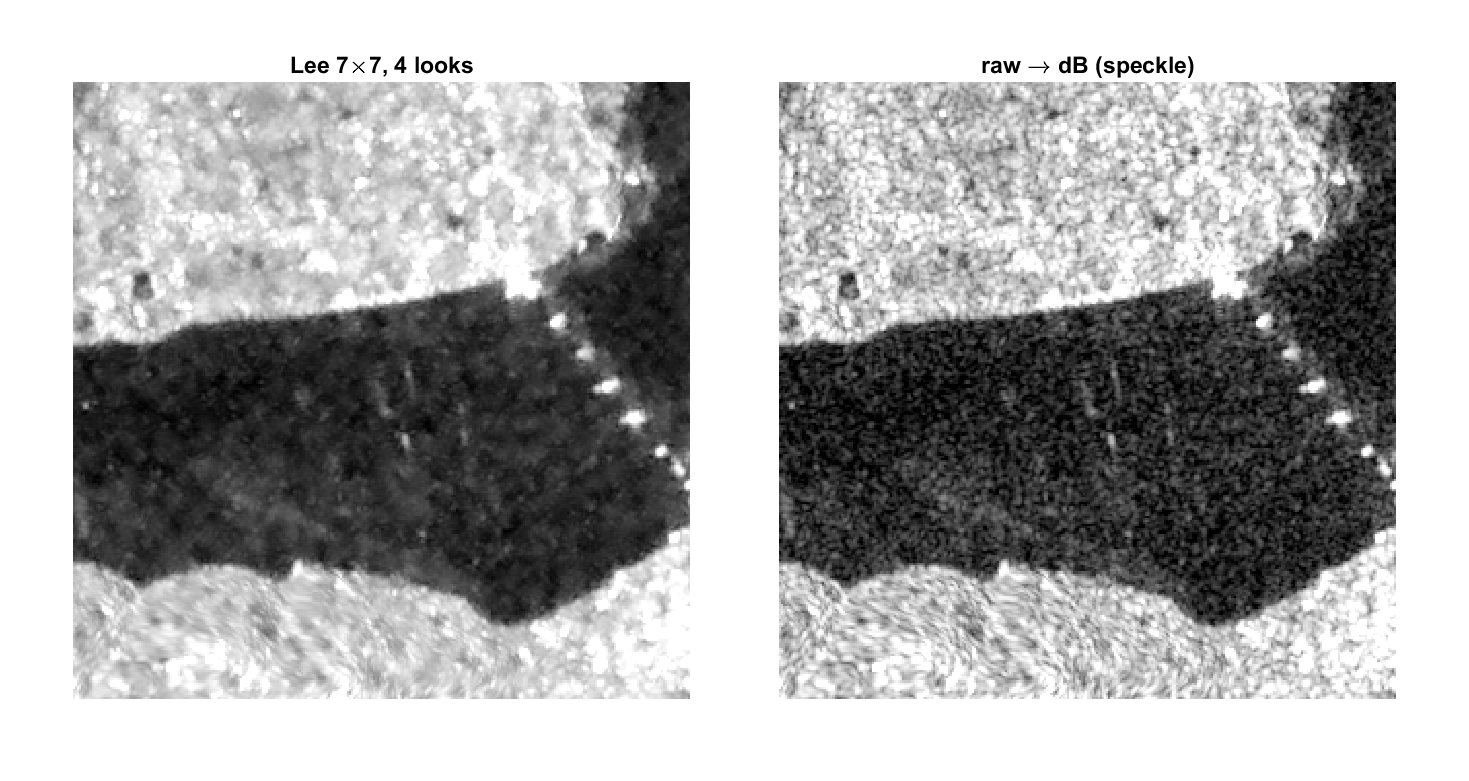
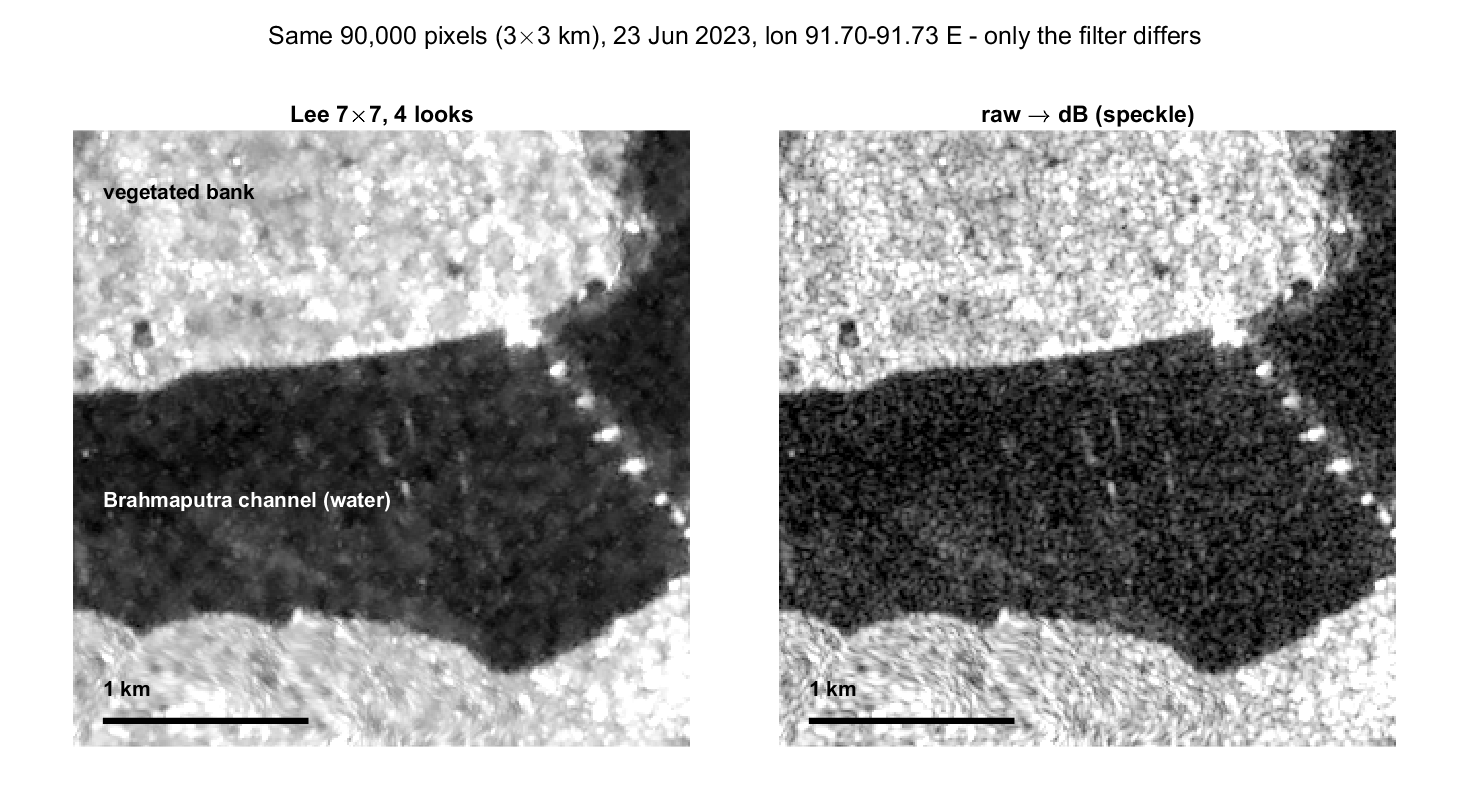
feat: lee_effect.py quantifies speckle->false-water; annotate MATLAB demo figure; ledger C-023

diff --git a/code/confidence/lee_effect.py b/code/confidence/lee_effect.py
@@ -1,0 +1,165 @@
+"""Quantify what the Lee speckle filter does to the flood map.
+
+Answers, with numbers, the question "why filter before thresholding?":
+
+  * area called water by the same Otsu threshold, unfiltered vs filtered
+  * how much of that is speckle-induced false water
+  * how much real (thin) water the smoothing costs
+  * speckle reduction measured on open water in the 3x3 km demo crop
+
+The unfiltered image is the raw linear-power RTC subset converted straight to dB
+(no filtering); the filtered image is the analysis-ready layer written by
+build_stack.py. Both are evaluated with the same threshold, so the comparison is
+like-for-like and *before* the permanent-water / slope / morphology cleanup.
+
+Outputs: outputs/tables/lee_effect.csv, outputs/figures/lee_effect.png
+Related: matlab/step1_read_filter.m (renders the same crop side by side).
+"""
+
+from __future__ import annotations
+
+import csv
+import sys
+from pathlib import Path
+
+sys.path.insert(0, str(Path(__file__).resolve().parents[1] / "preprocessing"))
+
+import matplotlib
+
+matplotlib.use("Agg")
+import matplotlib.pyplot as plt
+import numpy as np
+import rasterio
+from rasterio.warp import transform as warp_transform
+
+from common import load_config, rel_path
+
+DB_NODATA = -9999.0
+RAW_NODATA = -32768.0
+CROP = (1200, 1500, 300)  # row, col, size — mirrors matlab/step1_read_filter.m
+
+
+def read(path):
+    with rasterio.open(path) as src:
+        return src.read(1), src.transform, src.crs
+
+
+def otsu_threshold_from_table(tables: Path) -> float:
+    with open(tables / "mask_stats.csv", newline="", encoding="utf-8") as handle:
+        for row in csv.DictReader(handle):
+            if row["method"] == "otsu_vv":
+                return float(row["threshold"])
+    raise RuntimeError("otsu_vv row not found in mask_stats.csv")
+
+
+def main() -> int:
+    cfg = load_config()
+    processed = rel_path(cfg, "data_processed")
+    raw_dir = rel_path(cfg, "data_raw")
+    tables = rel_path(cfg, "outputs") / "tables"
+    figures = rel_path(cfg, "outputs") / "figures"
+    tables.mkdir(parents=True, exist_ok=True)
+    figures.mkdir(parents=True, exist_ok=True)
+
+    lee_db, transform, crs = read(processed / "s1_post_vv_db.tif")
+    raw, _, _ = read(raw_dir / "sentinel1" / "s1_rtc_post_vv.tif")
+
+    valid = (lee_db != DB_NODATA) & (raw > 0) & (raw != RAW_NODATA)
+    raw_db = np.full(raw.shape, np.nan, dtype="float32")
+    raw_db[valid] = 10.0 * np.log10(raw[valid].astype("float64"))
+
+    t = otsu_threshold_from_table(tables)
+    px_km2 = (cfg["grid"]["resolution_m"] ** 2) / 1e6
+
+    water_raw = valid & (raw_db < t)
+    water_lee = valid & (lee_db < t)
+    extra = water_raw & ~water_lee          # speckle-induced false water
+    lost = water_lee & ~water_raw           # thin water smoothed away
+
+    # ---- the demo crop (same window as the MATLAB figure) ----
+    r0, c0, n = CROP
+    crop_raw = raw_db[r0:r0 + n, c0:c0 + n]
+    crop_lee = lee_db[r0:r0 + n, c0:c0 + n]
+    water_mask = crop_raw < -15.0           # defined on the RAW image only, so unbiased
+    std_raw = float(np.nanstd(crop_raw[water_mask]))
+    std_lee = float(np.nanstd(crop_lee[water_mask]))
+
+    x0, y0 = transform * (c0, r0 + n)
+    x1, y1 = transform * (c0 + n, r0)
+    lon, lat = warp_transform(crs, "EPSG:4326", [x0, x1], [y0, y1])
+
+    rows = [
+        ("threshold_db", f"{t:.4f}"),
+        ("raw_water_km2", f"{water_raw.sum() * px_km2:.2f}"),
+        ("lee_water_km2", f"{water_lee.sum() * px_km2:.2f}"),
+        ("speckle_extra_km2", f"{extra.sum() * px_km2:.2f}"),
+        ("speckle_extra_pct_of_raw", f"{100.0 * extra.sum() / water_raw.sum():.2f}"),
+        ("lost_km2", f"{lost.sum() * px_km2:.2f}"),
+        ("pixel_agreement", f"{(water_raw == water_lee).mean():.4f}"),
+        ("crop_window_row_col_size", f"{r0},{c0},{n}"),
+        ("crop_size_km", f"{n * cfg['grid']['resolution_m'] / 1000:.2f}"),
+        ("crop_water_fraction", f"{water_mask.mean():.4f}"),
+        ("crop_std_raw_db", f"{std_raw:.3f}"),
+        ("crop_std_lee_db", f"{std_lee:.3f}"),
+        ("crop_std_reduction_pct", f"{100.0 * (1.0 - std_lee / std_raw):.1f}"),
+        ("crop_lon_min", f"{lon[0]:.5f}"),
+        ("crop_lon_max", f"{lon[1]:.5f}"),
+        ("crop_lat_min", f"{lat[0]:.5f}"),
+        ("crop_lat_max", f"{lat[1]:.5f}"),
+    ]
+    with open(tables / "lee_effect.csv", "w", newline="", encoding="utf-8") as handle:
+        writer = csv.writer(handle)
+        writer.writerow(["metric", "value"])
+        writer.writerows(rows)
+
+    # ---- figure: histogram effect + area effect ----
+    fig, axes = plt.subplots(1, 2, figsize=(14, 5.2))
+
+    lo, hi = -28.0, 6.0
+    axes[0].hist(raw_db[valid], bins=220, range=(lo, hi), density=True,
+                 color="#b0b0b0", label="unfiltered (speckle)")
+    axes[0].hist(lee_db[valid], bins=220, range=(lo, hi), density=True,
+                 histtype="step", color="#1f4e79", linewidth=1.6, label="Lee 7×7, 4 looks")
+    axes[0].axvline(t, color="#d62728", linestyle="--", linewidth=1.4,
+                    label=f"Otsu = {t:.2f} dB")
+    axes[0].set_xlabel("VV backscatter (dB)")
+    axes[0].set_ylabel("probability density")
+    axes[0].set_title("Speckle fills the valley — filtering sharpens the water/land split")
+    axes[0].legend(fontsize=9)
+    axes[0].grid(alpha=0.3)
+
+    labels = ["unfiltered", "Lee-filtered"]
+    areas = [water_raw.sum() * px_km2, water_lee.sum() * px_km2]
+    bars = axes[1].bar(labels, areas, color=["#b0b0b0", "#1f4e79"], width=0.55)
+    axes[1].bar_label(bars, fmt="%.1f km²", padding=3, fontsize=11)
+    axes[1].set_ylabel("area below the same Otsu threshold (km²)")
+    axes[1].set_title(
+        f"same threshold, before cleanup\n"
+        f"{extra.sum() * px_km2:.1f} km² (={100.0 * extra.sum() / water_raw.sum():.1f}%) is speckle, "
+        f"{lost.sum() * px_km2:.1f} km² of thin water lost"
+    )
+    axes[1].set_ylim(0, max(areas) * 1.18)
+    axes[1].grid(axis="y", alpha=0.3)
+
+    fig.suptitle(f"Effect of Lee filtering on the flood map — {cfg['event']['name']}", fontsize=13)
+    fig.tight_layout()
+    fig_path = figures / "lee_effect.png"
+    fig.savefig(fig_path, dpi=140)
+    plt.close(fig)
+
+    print(f"Threshold (from mask_stats.csv): {t:.4f} dB")
+    print(f"  unfiltered water : {water_raw.sum() * px_km2:8.2f} km2")
+    print(f"  Lee-filtered     : {water_lee.sum() * px_km2:8.2f} km2")
+    print(f"  speckle extra    : {extra.sum() * px_km2:8.2f} km2 "
+          f"({100.0 * extra.sum() / water_raw.sum():.1f}% of unfiltered)")
+    print(f"  thin water lost  : {lost.sum() * px_km2:8.2f} km2")
+    print(f"  pixel agreement  : {(water_raw == water_lee).mean():.4f}")
+    print(f"Open-water std in crop: {std_raw:.2f} -> {std_lee:.2f} dB "
+          f"({100.0 * (1 - std_lee / std_raw):.0f}% reduction)")
+    print(f"Wrote {tables / 'lee_effect.csv'}")
+    print(f"Wrote {fig_path}")
+    return 0
+
+
+if __name__ == "__main__":
+    sys.exit(main())

diff --git a/matlab/step1_read_filter.m b/matlab/step1_read_filter.m
@@ -48,16 +48,31 @@ d = abs(Idb - I); d = d(isfinite(d));
 fprintf('Lee rebuild vs processed file: max %.6f dB | P99 %.6f dB\n', max(d), prctile(d,99));
 
 %% Section E — what the filter actually did (the demo figure)
-r0 = 1200; c0 = 1500; n = 300;
-figure('Color','w','Position',[80 80 940 500]);
+r0 = 1200; c0 = 1500; n = 300;            % 300 px = 3.00 km at 10 m
+figure('Color','w','Position',[80 80 940 520]);
+
 subplot(1,2,1)
 imagesc(Idb(r0:r0+n-1, c0:c0+n-1)); axis image off
 colormap(gray); caxis([-22 -2]); title('Lee 7\times7, 4 looks');
-set(gca,'Position',[0.05 0.08 0.42 0.84]);   % square box -> no white margins
+set(gca,'Position',[0.05 0.06 0.42 0.80]);      % square box -> no white margins
+hold on
+text(15, 180, 'Brahmaputra channel (water)', 'Color','w', 'FontSize',10, 'FontWeight','bold');
+text(15,  30, 'vegetated bank',              'Color','k', 'FontSize',10, 'FontWeight','bold');
+plot([15 115], [288 288], 'k-', 'LineWidth', 3); % 100 px = 1 km scale bar
+text(15, 272, '1 km', 'Color','k', 'FontSize',10, 'FontWeight','bold');
+hold off
+
 subplot(1,2,2)
 imagesc(10*log10(Lraw(r0:r0+n-1, c0:c0+n-1))); axis image off
 colormap(gray); caxis([-22 -2]); title('raw \rightarrow dB (speckle)');
-set(gca,'Position',[0.53 0.08 0.42 0.84]);
+set(gca,'Position',[0.53 0.06 0.42 0.80]);
+hold on
+plot([15 115], [288 288], 'k-', 'LineWidth', 3);
+text(15, 272, '1 km', 'Color','k', 'FontSize',10, 'FontWeight','bold');
+hold off
+
+sgtitle(['Same 90,000 pixels (3\times3 km), 23 Jun 2023, ', ...
+         'lon 91.70-91.73 E - only the filter differs'], 'FontSize',12);
 saveas(gcf, fullfile(P.out,'lee_before_after.png'));
 
 %% Section F — self-check (the two numbers a viva will ask for)

diff --git a/report/DRAFT_REPORT.md b/report/DRAFT_REPORT.md
@@ -98,6 +98,8 @@ Verified against the live Planetary Computer STAC API on 2026-11-07 (riverine pi
 
 **M1 preprocessing.** The RTC pair is read on the common 10 m grid. A 7x7 Lee filter is applied to linear power with 4 looks, then converted to dB (`10*log10`). Slope is derived from the Copernicus DEM. Permanent water is JRC occurrence ≥ 50%; urban is ESA WorldCover class 50; vegetation is classes 10–40. All products share the `EPSG:32646` grid.
 
+Filtering is not cosmetic, and the effect is measurable. At the same Otsu threshold (−12.5534 dB) the unfiltered scene falls below threshold over 231.4 km², versus 208.5 km² after Lee filtering: **23.9 km² (10.3%) of that area is speckle-induced false water**, while smoothing costs only 1.08 km² of thin water (pixel agreement 98.2%). In the 3 km × 3 km demo crop over the Brahmaputra channel (91.70–91.73 °E, 26.17–26.19 °N) open-water backscatter variability falls from 1.87 to 1.36 dB (σ). Evidence: `outputs/tables/lee_effect.csv`, `outputs/figures/lee_effect.png`, `code/confidence/lee_effect.py`. The same stage is re-implemented natively in MATLAB (`matlab/step1_read_filter.m`), which reproduces the Python filter to 2.2 × 10⁻⁵ dB — a tool-independence check on the preprocessing.
+
 **M2 flood-mask ensemble.** Four core methods are applied, plus two alternative thresholding methods evaluated for the ensemble:
 1. Global Otsu on post-event VV (threshold −12.55 dB).
 2. Global Otsu on post-event VH (threshold −17.31 dB).
@@ -179,6 +181,7 @@ These cases demonstrate the central sensitivity of C-band flood mapping to event
 5. **Pre/post spacing.** The SAR pair is 12 days apart (11 and 23 June); the change-detection method therefore reflects net change over a long window, not the event alone.
 6. **Classical methods only.** No deep-learning or polarimetric methods were used; the adaptive method's weakness is a documented limitation of simple local statistics in heterogeneous terrain.
 7. **No depth or hydrology.** The maps are extents, not depths, and no hydraulic model was applied.
+8. **Lee noise model.** The filter assumes 4 looks, but open-water variability (σ ≈ 1.9 dB) suggests the RTC product is already multilooked, so the filter smooths slightly more than is statistically optimal. The measured cost is 1.08 km² of thin water (`outputs/tables/lee_effect.csv`); estimating the equivalent number of looks from the data would be more principled.
 
 ---
 

diff --git a/report/claims_ledger.md b/report/claims_ledger.md
@@ -38,4 +38,6 @@ Status values: `planned`, `verified`, `rejected`.
 | C-021 | GMM-ensemble validation vs S2 (confusion counts): TP 769,405 / FP 161,621 / FN 190,390 / TN 4,428,616; precision 82.6%, recall 80.2%, F1 0.8138 | `outputs/figures/validation_agreement.png`; `code/confidence/validation_viz.py` | verified |
 | C-022 | Bootstrap 95% CI (500 m blocks, 1000 reps): binary F1 0.8139 [0.801, 0.826]; reliability High 88.4% [86.9, 89.7] vs Medium 83.7% [81.6, 85.7] — non-overlapping, so High is significantly more precise | `outputs/tables/bootstrap_ci.csv`; `outputs/figures/reliability_ci.png` | verified |
 
+| C-023 | Lee filtering at the same Otsu threshold (−12.5534 dB): unfiltered 231.38 km² vs filtered 208.53 km², so 23.93 km² (10.3%) is speckle-induced false water and only 1.08 km² of thin water is lost (pixel agreement 0.9816); open-water σ in the 3 km demo crop falls 1.87 → 1.36 dB (27%) | `outputs/tables/lee_effect.csv`; `outputs/figures/lee_effect.png`; `code/confidence/lee_effect.py` | verified |
+
 **Rule:** if a row cannot be filled with a real path or citation, the claim is removed or tagged `[To verify]`.

diff --git a/ARCHITECTURE.md b/ARCHITECTURE.md
@@ -145,6 +145,11 @@ scripts. See README "Reproduce".
 
 Outputs → `data/processed/`: `s1_{pre,post}_{vv,vh}_db.tif`, `slope_deg.tif`, masks.
 
+**Measured effect of the filter** (`lee_effect.py`, `lee_effect.csv`): at the same
+Otsu threshold (−12.5534 dB) the unfiltered scene gives 231.4 km² below threshold vs
+208.5 km² filtered — 23.9 km² (10.3%) of that is speckle-induced false water, while
+only 1.08 km² of thin water is lost. Open-water σ in the 3 km demo crop: 1.87 → 1.36 dB.
+
 ---
 
 ## 5. Segmentation — six methods
@@ -248,7 +253,7 @@ code/
   flood_masks/    run_masks.py
   confidence/     agreement.py · validate.py · alternative_members.py
                   sensitivity_drop_adaptive.py · bootstrap_ci.py
-                  validation_viz.py · cross_terrain.py
+                  validation_viz.py · cross_terrain.py · lee_effect.py
 notebooks/        00_data_acquisition … 09_bootstrap_ci
 report/           DRAFT_REPORT.md · decisions.md · claims_ledger.md
                   WORKLOG.md · PROGRESS.md · references/references.bib

diff --git a/matlab/BUILD_GUIDE.md b/matlab/BUILD_GUIDE.md
@@ -67,6 +67,12 @@ These come from the Python run and are your acceptance tests.
 Evidence: `matlab/step1_read_filter.m`, `matlab/out/hist_post_vv.png`,
 `matlab/out/lee_before_after.png`.
 
+**Why the filter matters (quote this).** From `code/confidence/lee_effect.py`
+(`outputs/tables/lee_effect.csv`): at the *same* threshold, the unfiltered scene
+gives 231.4 km² below threshold vs 208.5 km² filtered — **23.9 km² (10.3 %) is
+speckle-induced false water**, while smoothing costs only **1.08 km²** of thin
+water. That is a ~20:1 trade, and it is the quantified answer to "why preprocess?".
+
 ### Mask areas (soft check, ±0.5 %)
 
 | Mask | km² |

diff --git a/README.md b/README.md
@@ -70,6 +70,9 @@ python code\confidence\sensitivity_drop_adaptive.py
 python code\confidence\bootstrap_ci.py
 python code\confidence\validation_viz.py
 python code\confidence\cross_terrain.py
+
+# 6. preprocessing effect (supports the MATLAB cross-check)
+python code\confidence\lee_effect.py
 ```
 
 Or run the matching notebooks in `notebooks/` cell-by-cell (`notebooks/README.md`)
